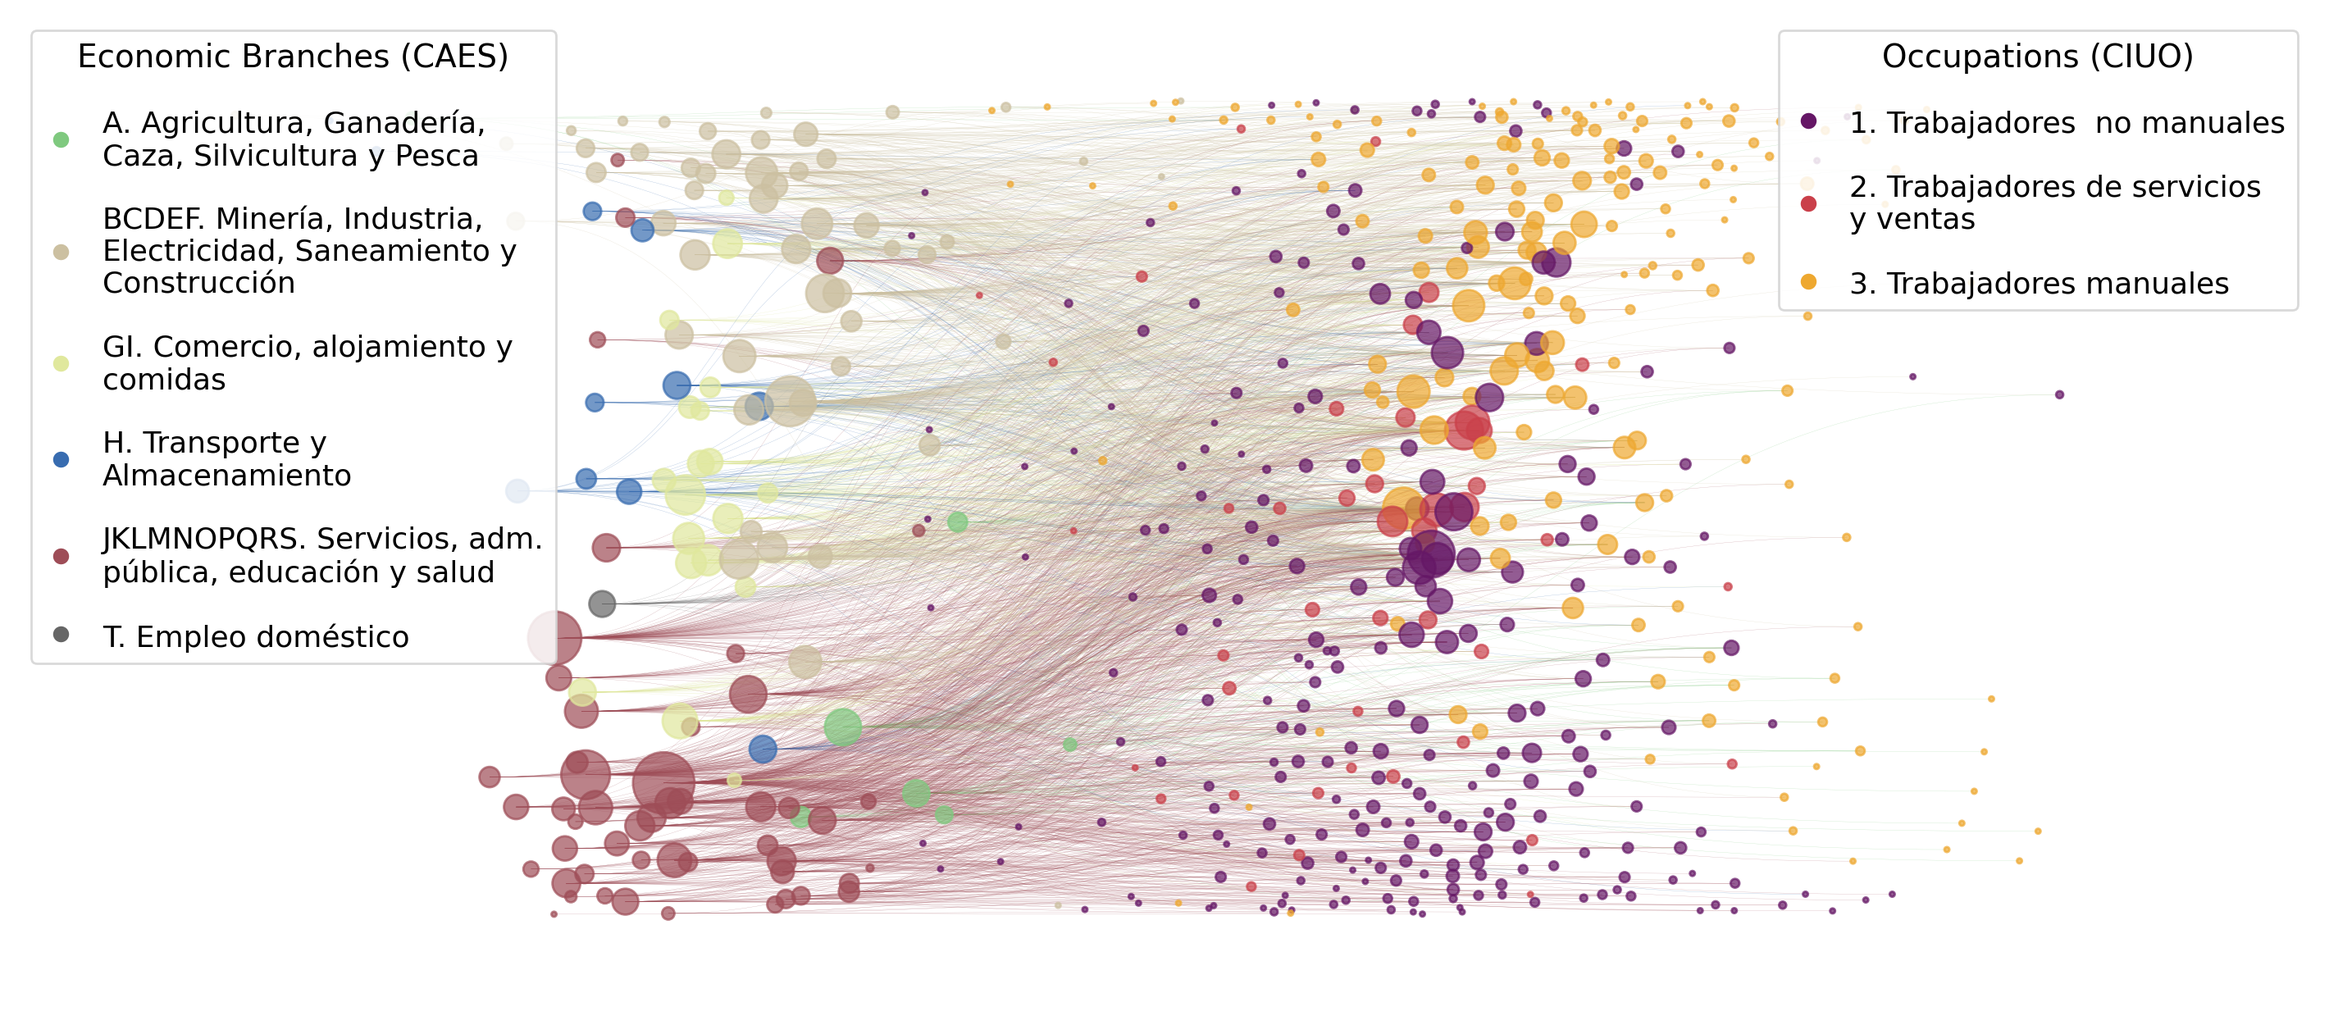
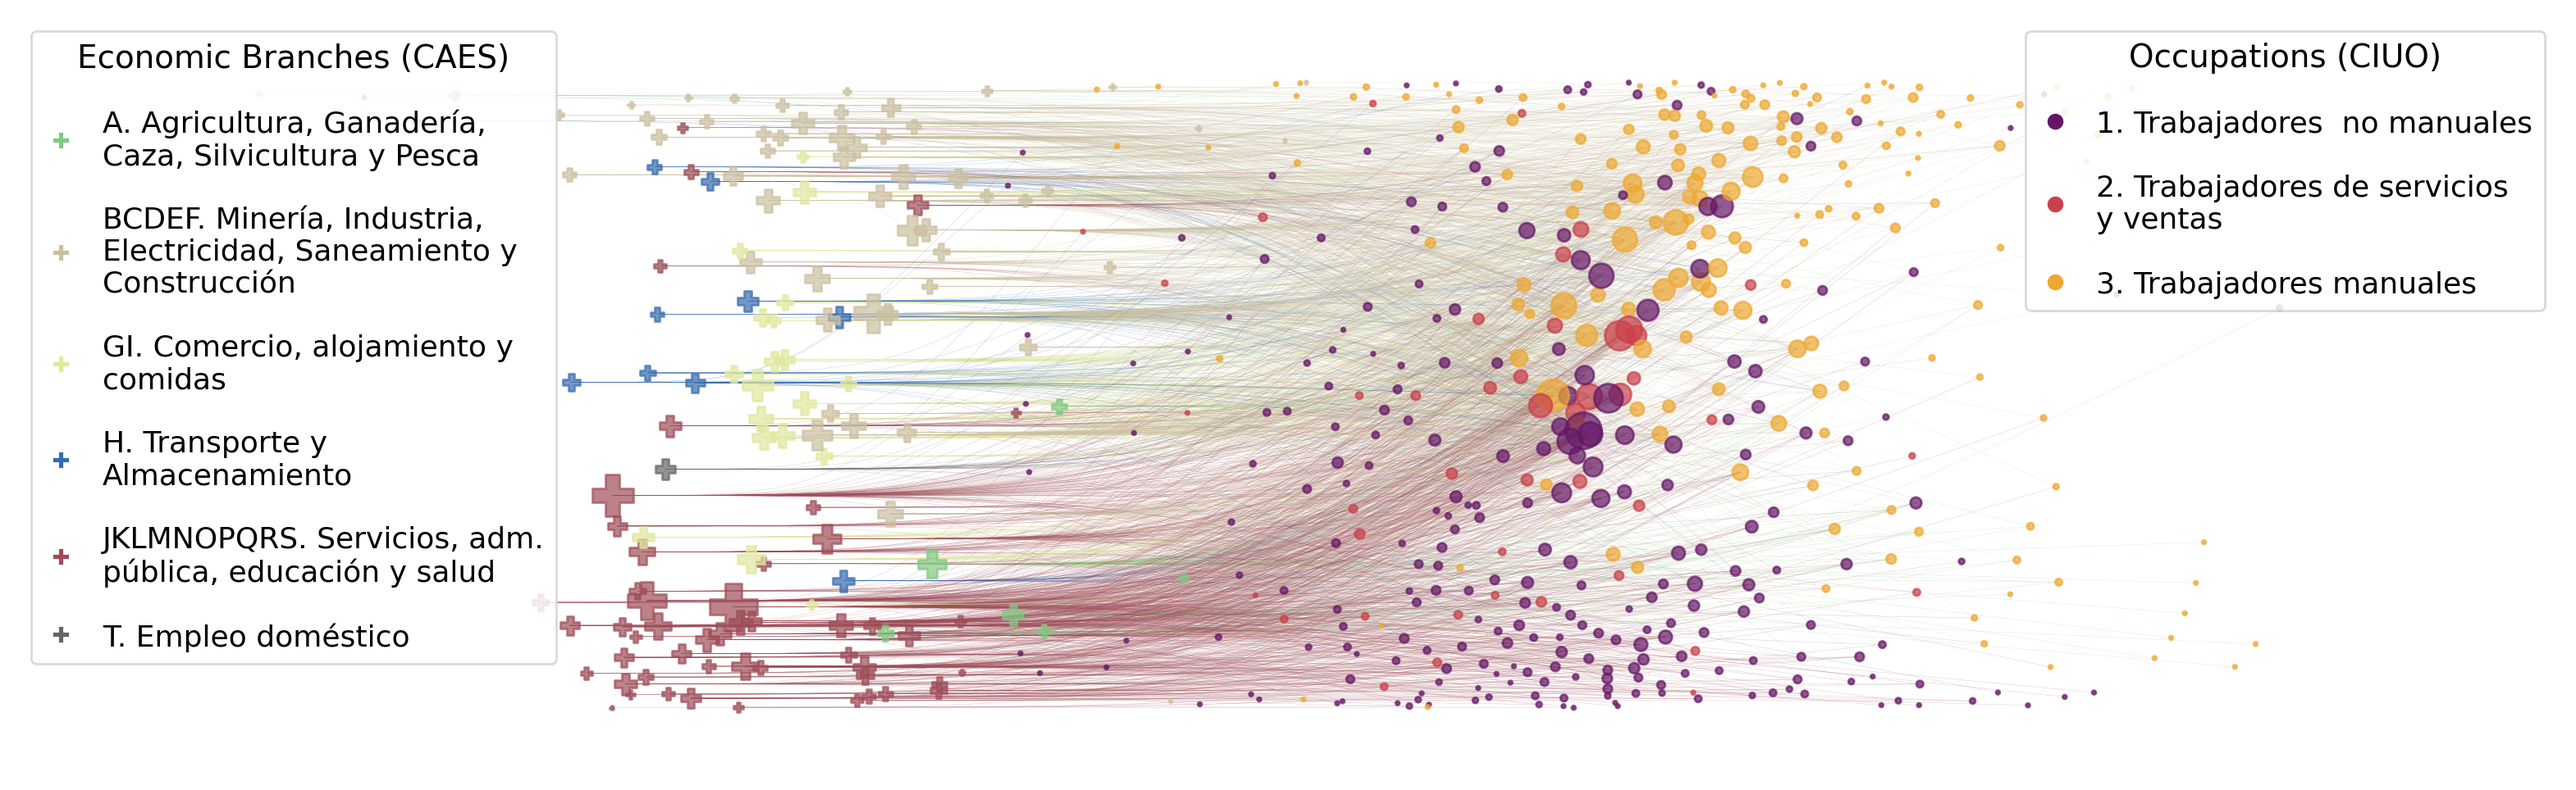
Increase bipartite figure size and improve node drawing in bipartite plots

diff --git a/src/plotting.py b/src/plotting.py
@@ -260,11 +260,37 @@ def draw_bipartite_by_color(
 
 	# Defining color and size maps
 	node_colors = [color_map.get(int(node), "gray") for node in graph.nodes()]
-	size_map = [degree * 5 for _, degree in graph.degree()]
+	size_map = {node: degree * 3 for node, degree in graph.degree()}
+	caes_nodes = [
+		node for node in graph.nodes()
+		if graph.nodes[node].get("bipartite") == ut.get_class_index("caes")
+	]
+	ciuo_nodes = [
+		node for node in graph.nodes()
+		if graph.nodes[node].get("bipartite") == ut.get_class_index("ciuo")
+	]
 
 	# Plotting
 	plt.figure(figsize=figsize)
-	nx.draw(graph, pos, with_labels=False, node_color=node_colors, node_size=size_map, edge_color="white", width=0.1, alpha=0.7)
+	nx.draw_networkx_edges(graph, pos, edge_color="white", width=0.1, alpha=0.7)
+	nx.draw_networkx_nodes(
+		graph,
+		pos,
+		nodelist=caes_nodes,
+		node_color=[color_map.get(int(node), "gray") for node in caes_nodes],
+		node_size=[size_map[node] for node in caes_nodes],
+		node_shape="P",
+		alpha=0.7,
+	)
+	nx.draw_networkx_nodes(
+		graph,
+		pos,
+		nodelist=ciuo_nodes,
+		node_color=[color_map.get(int(node), "gray") for node in ciuo_nodes],
+		node_size=[size_map[node] for node in ciuo_nodes],
+		node_shape="o",
+		alpha=0.7,
+	)
 
 	# Draw spline edges
 	path_cls = mpath.Path
@@ -275,7 +301,7 @@ def draw_bipartite_by_color(
 
 		# Define Bezier curve control points
 		control1 = (np.mean([start[0], end[0]]), start[1])
-		control2 = (np.mean([start[0], end[0]]), end[1])
+		control2 = (np.mean([start[0], end[0]]), start[1])
 		verts = [start, control1, control2, end]
 		codes = [path_cls.MOVETO, path_cls.CURVE4, path_cls.CURVE4, path_cls.CURVE4]
 		path = path_cls(verts, codes)
@@ -321,15 +347,15 @@ def draw_bipartite_by_color(
 			else:
 				ciuo_groups[lbl] = color
 
-	def _make_handles(groups):
+	def _make_handles(groups, marker_shape='o'):
 		return [
-			plt.Line2D([0], [0], marker='o', color='w', markerfacecolor=c, markersize=8, label=textwrap.fill(lbl, 28), linestyle='')
+			plt.Line2D([0], [0], marker=marker_shape, color='w', markerfacecolor=c, markersize=8, label=textwrap.fill(lbl, 28), linestyle='')
 			for lbl, c in sorted(groups.items())
 		]
 
 	if caes_groups:
 		leg_l = plt.legend(
-			handles=_make_handles(caes_groups),
+			handles=_make_handles(caes_groups, marker_shape='P'),
 			title="Economic Branches (CAES)",
 			loc="upper left",
 			bbox_to_anchor=(0.0, 1.0),
@@ -341,7 +367,7 @@ def draw_bipartite_by_color(
 		plt.gca().add_artist(leg_l)
 	if ciuo_groups:
 		plt.legend(
-			handles=_make_handles(ciuo_groups),
+			handles=_make_handles(ciuo_groups, marker_shape='o'),
 			title="Occupations (CIUO)",
 			loc="upper right",
 			bbox_to_anchor=(1.0, 1.0),

diff --git a/config.py b/config.py
@@ -57,7 +57,7 @@ IMAGE_DIR = Path(__file__).parent / Path("images")
 
 TOP_N_BAR_FIGSIZE = (8, 6)
 EDGE_CORRELATION_FIGSIZE = (6, 6)
-BIPARTITE_FIGSIZE = (14, 6)
+BIPARTITE_FIGSIZE = (20, 6)
 PROJECTION_FIGSIZE = (8, 8)
 STACKED_FIGSIZE = (12, 3.5)
 PLOT_FONT_SIZE = 14
